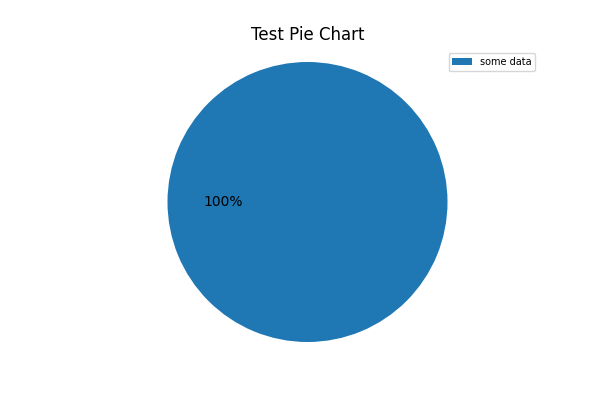
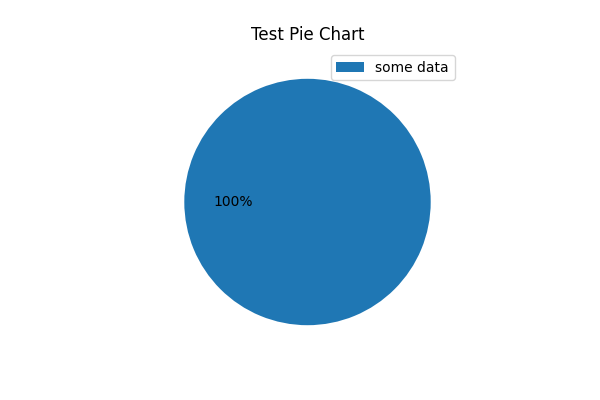
create pie chart using an unpacked list from the database

Changed region(s): [[0.27, 0.12, 0.9, 0.87]]

diff --git a/application/templates/example.html b/application/templates/example.html
@@ -4,7 +4,7 @@
 <h1>A page of working examples</h1>
 
 <h2>insert an image into a page</h2>
-<img src="{{ url_for('static', filename='images/miro.jpg') }}" height='300' width='450' alt="Our Miro board" />
+<img src="{{ url_for('static', filename='images/miro.jpg') }}" height='300' width='550' alt="Our Miro board" />
 
 <h2>Call my class</h2>
 <p>{{ call_my_class.get_name() }}</p>
@@ -13,18 +13,30 @@
 <p>I need to unpack this tuple {{ my_data }}</p>
 
 <h2>get result out of database</h2>
-<p>grabbing an item out of my tuple {{ my_data[0] }}</p>
+<p>grabbing a specific item out of my tuple {{ my_data[0] }}</p>
 
 <h2>unpacking the returned tuple</h2>
 {% set value_a = my_data[0] %}
 <p>My unpacked tuple gives me .... {{ value_a }}</p>
 
 <h2>a returned tuple that contains a list</h2>
-<p>{{ data_list }}</p>
+<p>look here ... {{ data_list }}</p>
 
-<h2>create the pie chart by calling the class and display the image</h2>
+<h2>print that returned tuple list on the screen</h2>
+<ul>
+    {% for item in data_list %}
+    <li>{{ item }}</li>
+    {% endfor %}
+</ul>
+
+<h2>create the pie chart using a single value from the database by calling the class and display the image</h2>
 <p>{{ call_my_class.create_pie(value_a) }}</p>
 <!-- calling the class prints None on the screen because the class method doesn't return anything-->
-<img src="{{ url_for('static', filename='images/piechart1.png') }}" height='300' width='450' alt="spending pie chart" />
+<img src="{{ url_for('static', filename='images/piechart1.png') }}" height='300' width='450' alt="chart uses a single value from the database" />
+
+<h2>create the pie chart using a list of values from the database by calling the class and display the image</h2>
+<p>{{ call_my_class.create_pie_from_list(data_list) }}</p>
+<!-- calling the class prints None on the screen because the class method doesn't return anything-->
+<img src="{{ url_for('static', filename='images/piechart2.png') }}" height='300' width='450' alt="chart uses a list of values from the database" />
 
 {% endblock %}

diff --git a/application/static/styles/styles.css b/application/static/styles/styles.css
@@ -1,6 +1,6 @@
 body, a {
 margin: auto;
-text-align: center;
+/* text-align: center; */
 background-color: #C5D1EB;
 color: #0B1D51;
 }

diff --git a/application/routes.py b/application/routes.py
@@ -58,9 +58,6 @@ def dashboard():
         def __init__(self, name):
             self.name = name
         
-        def get_name(self):
-            return f"My name is {self.name}."
-        
         def create_pie(self, my_variable):
             # creates a dataframe that matplot can use
             df = pd.DataFrame({'expenditure': [my_variable], 'spending': [100]})
@@ -101,9 +98,10 @@ def example():
     mycursor.callproc('data_out_list')
     data_list = []
     for result in mycursor.stored_results():
-        data_list.append(result.fetchall())
-    # for item in data_list:
-    #     my_list_data = item.pop(0)
+        for returned_list in result:
+            for tuple in returned_list:
+                list_item = tuple
+                data_list.append(list_item)
 
     # create a class
     class Finance:
@@ -124,17 +122,31 @@ def example():
             plt.subplot()
             # which data to use and to display a whole figure percentage
             plt.pie(df['spending'], autopct='%d%%')
-            plt.axis('equal')
             plt.title("Test Pie Chart")
-            plt.legend(df['expenditure'], loc='upper right', bbox_to_anchor=(1,1), fontsize=7)
-
+            # uses the variable pulled from the database to create the chart legend
+            plt.legend(df['expenditure'])
             # put that pie chart in a saved file
             plt.savefig('application/static/images/piechart1.png')
+            #return - what to return to remove the None output
+        
+        def create_pie_from_list(self, my_list):
+            # creates a dataframe that matplot can use
+            df = pd.DataFrame({'expenditure': my_list, 'spending': [50, 50]})
 
-            # return the image
-            #return - what to return to remove the None
+            # creates the size of the pie chart
+            plt.figure(figsize=(6,4))
+            # tells the computer to create the pie chart
+            plt.subplot()
+            # which data to use and to display a whole figure percentage
+            plt.pie(df['spending'], autopct='%d%%')
+            plt.title("Test Pie Chart")
+            # uses the variable pulled from the database to create the chart legend
+            plt.legend(df['expenditure'])
+            # put that pie chart in a saved file
+            plt.savefig('application/static/images/piechart2.png')
+            #return - what to return to remove the None output
 
     # create an instance of that class
     create_instance = Finance('Ellen')
 
-    return render_template('example.html', title='Example', call_my_class=create_instance, my_data=my_data, data_list=data_list) #key=value pairs (my_variable = this_thing_here)
+    return render_template('example.html', title='Working Example Page', call_my_class=create_instance, my_data=my_data, data_list=data_list) #key=value pairs (my_variable = this_thing_here)
